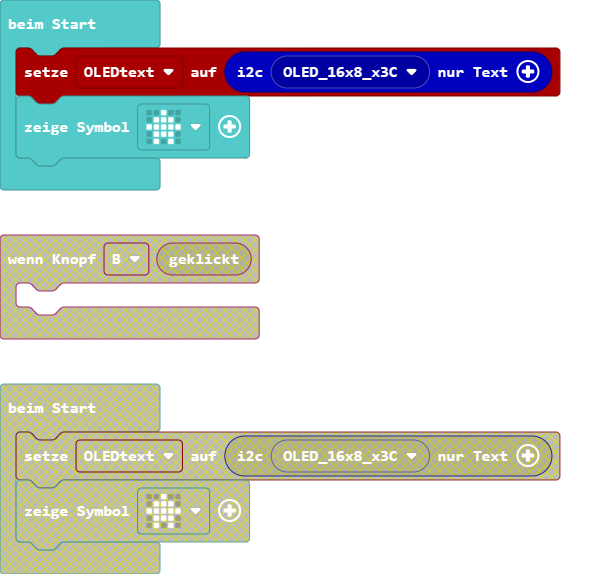
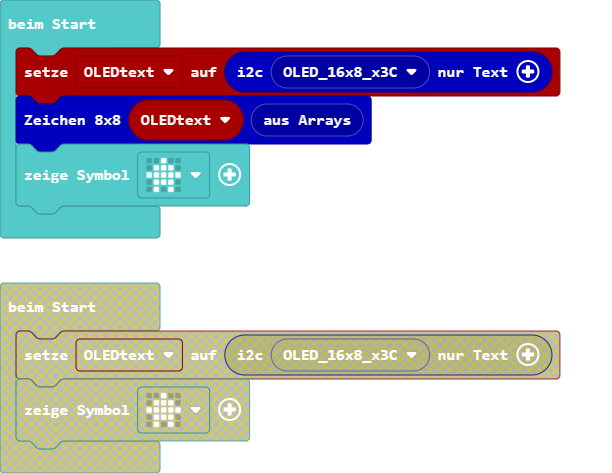
Aktualisiere pxt.json, main.blocks, main.ts, oledclass.ts, oledeeprom.ts

diff --git a/oledclass.ts b/oledclass.ts
@@ -24,12 +24,6 @@ Objektvariablen und Zeichensatz aus Arrays von calliope-net/oled-eeprom im Novem
     //% pInvert.shadow="toggleOnOff"
     //% pFlip.shadow="toggleOnOff"
     //% ck.shadow="toggleOnOff" ck.defl=1
-
-    //% pEEPROM_Startadresse_8x8.shadow="oled_eEEPROM_Startadresse"
-    //% pEEPROM_Startadresse_5x5.shadow="oled_eEEPROM_Startadresse"
-    //% pEEPROM_Startadresse_5x5.defl=oled.eEEPROM_Startadresse.EC00
-    //% pEEPROM_i2cADDR.shadow="oled_eADDR_EEPROM"
-
     //% inlineInputMode=inline
     //% blockSetVariable=OLEDtext
     export function new_oledclass(pADDR: number, pInvert?: boolean, pFlip?: boolean, ck?: boolean): oledclass {
@@ -44,7 +38,7 @@ Objektvariablen und Zeichensatz aus Arrays von calliope-net/oled-eeprom im Novem
     // ========== class oledclass
 
     export class oledclass {
-        private readonly i2cADDR_OLED: eADDR_OLED
+        private readonly i2cADDR: eADDR_OLED
         private readonly i2cCheck: boolean // i2c-Check
         private i2cError_OLED: number = 0 // Fehlercode vom letzten WriteBuffer (0 ist kein Fehler)
         // EEPROM
@@ -61,17 +55,10 @@ Objektvariablen und Zeichensatz aus Arrays von calliope-net/oled-eeprom im Novem
 
 
         constructor(pADDR: number, pInvert: boolean, pFlip: boolean, ck: boolean) {
-
-            this.i2cADDR_OLED = pADDR
+            this.i2cADDR = pADDR
             this.i2cCheck = ck
-            //this.qEEPROM_Startadresse_8x8 = pEEPROM_Startadresse_8x8
-            //this.qEEPROM_Startadresse_5x5 = pEEPROM_Startadresse_5x5
-            //this.i2cADDR_EEPROM = pEEPROM_i2cADDR
             this.i2cError_OLED = 0 // Reset Fehlercode
-            //this.i2cError_EEPROM = 0 // Reset Fehlercode
-
             this.init(pInvert, pFlip)
-            //this.getPixel8Byte(0x20)  // testet, ob EEPROM angeschlossen ist
         }
 
 
@@ -490,11 +477,11 @@ Objektvariablen und Zeichensatz aus Arrays von calliope-net/oled-eeprom im Novem
 
         protected i2cWriteBuffer_OLED(buf: Buffer, repeat: boolean = false) {
             if (this.i2cError_OLED == 0) { // vorher kein Fehler
-                this.i2cError_OLED = pins.i2cWriteBuffer(this.i2cADDR_OLED, buf, repeat)
+                this.i2cError_OLED = pins.i2cWriteBuffer(this.i2cADDR, buf, repeat)
                 if (this.i2cCheck && this.i2cError_OLED != 0)  // vorher kein Fehler, wenn (n_i2cCheck=true): beim 1. Fehler anzeigen
-                    basic.showString(Buffer.fromArray([this.i2cADDR_OLED]).toHex()) // zeige fehlerhafte i2c-Adresse als HEX
+                    basic.showString(Buffer.fromArray([this.i2cADDR]).toHex()) // zeige fehlerhafte i2c-Adresse als HEX
             } else if (!this.i2cCheck)  // vorher Fehler, aber ignorieren (n_i2cCheck=false): i2c weiter versuchen
-                this.i2cError_OLED = pins.i2cWriteBuffer(this.i2cADDR_OLED, buf, repeat)
+                this.i2cError_OLED = pins.i2cWriteBuffer(this.i2cADDR, buf, repeat)
             //else { } // n_i2cCheck=true und n_i2cError != 0: weitere i2c Aufrufe blockieren
         }
 

diff --git a/oledeeprom.ts b/oledeeprom.ts
@@ -35,7 +35,6 @@ neu programmiert von Lutz Elßner im November 2023
         public qEEPROM_Startadresse_5x5 = eEEPROM_Startadresse.EC00
 
 
-
         constructor(pADDR = eADDR_EEPROM.EEPROM_x50, ck: boolean = true) {
             this.i2cADDR_EEPROM = (pADDR != undefined ? pADDR : eADDR_EEPROM.EEPROM_x50)
             this.i2cError_EEPROM = 0 // Reset Fehlercode

diff --git a/main.ts b/main.ts
@@ -4,4 +4,5 @@ input.onButtonEvent(Button.A, input.buttonEventClick(), function () {
 })
 let OLEDtext: oled.oledclass = null
 OLEDtext = oled.new_oledclass(oled.oled_eADDR_OLED(oled.eADDR_OLED.OLED_16x8_x3C))
+OLEDtext.set_oledarrays_8x8(oled.new_oledarrays_8x8())
 basic.showIcon(IconNames.House)
